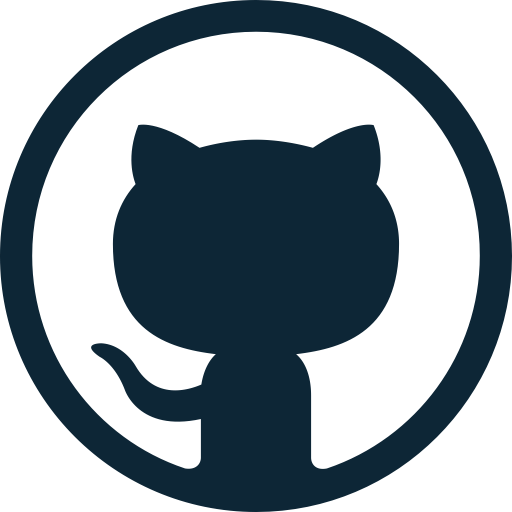
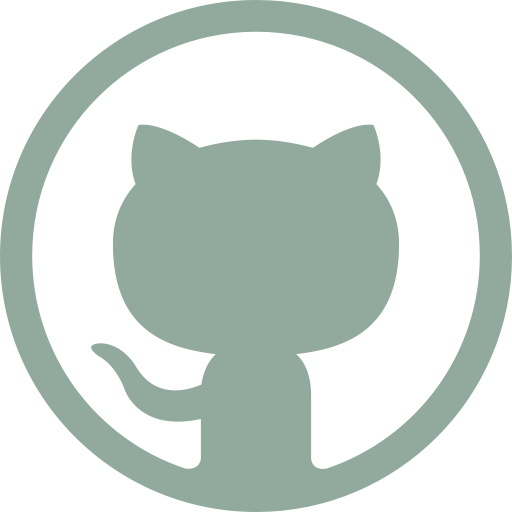
Add style and color scheme that is less bad

diff --git a/style.css b/style.css
@@ -1,53 +1,57 @@
 @import url('https://fonts.googleapis.com/css?family=Comfortaa|Indie+Flower');
-body{
-    background-color: darkgray;
+body {
+    background-color: #193441   ;
 }
 h1 {
-    font-family: 'Indie Flower', cursive;
+    font-family: 'Comfortaa', cursive;
     font-size: 40px;
-    color: #222;
-    margin-left: 150px; 
+    color: #FCFFF5;
+    margin-left: 120px; 
 }
 h2 {
-    font-family: 'Indie Flower', cursive;
+    font-family: 'Comfortaa', cursive;
     text-align: center;
+}
+h3{
+    font-family: 'Comfortaa', cursive;
+    font-size: 15px;
 }
 p1 {
     font-family: 'Comfortaa', cursive;
     font-size: 14px;
 }
-#head{
+#head {
     width: 500px;
-    background-image: url("bg1.jpg");
+    background-color:#3E606F ;
     margin: auto;
     padding: 20px;
     border-radius: 8px;
 }
-#current-resume{
+#current-resume {
     margin: auto;
     width:auto;
 }
-#nav{
+#nav {
     height: 45px;
 }
-#nav2{
-        width: 50%;
-        margin: 0 auto;
+#nav2 {
+    width: 50%;
+    margin: 0 auto;
 }
-.navButton{
+.navButton {
     display: inline;
     font-family: 'Comfortaa', cursive;
     font-size: 15px;
     padding: 10px;
     width: 27%;
     height: 45px;
-    background-color: #83967b;
+    background-color: #D1DBBD;
     border: 1px solid black;
     border-radius: 3px;
     transition-duration: 200ms;
     margin-left: 20px;
 }
-.socialButton{
+.socialButton {
     background-color: transparent;
     border: none;
     display: inline;
@@ -59,21 +63,21 @@ p1 {
     border-radius: 50%;
 }
 .navButton:hover {
-    background-color: #ccc;
+    background-color: whitesmoke;
 }
 .socialButton:hover {
-    background-color: rgba(255,255,255,0.1)
+    background-color: #193441;
 }
-#body{
-    width: 100%;
+#body {
+    width: 99%;
 }
-.contentItem{
+.contentItem {
     width: 50%;
     margin: 0 auto;
-    background: linear-gradient(#ccc, #bbb); 
+    background-color: #FCFFF5;
     margin-top: 20px;
     padding: 10px;
-    border: 1px solid gray;
+    border: 5px solid #91AA9D;
     border-radius: 5px;
 }
 #current-resume {
@@ -85,4 +89,5 @@ p1 {
     margin-left: 15%;
     margin-right: 15%;
     margin-top: 100px;
+    border: 5px solid #91AA9D;
 }

diff --git a/index.html b/index.html
@@ -46,7 +46,8 @@
                         My name is Porter. I am a prospective 
                         computer science major at Earlham College.
                     </p1>
-                        
+                </div>
+                <div class="contentItem"> 
                     <h2>General Background</h2>
                     <p1>
                         I have been interested 
@@ -63,8 +64,9 @@
                 </div>
                 <div class="contentItem">
                     <h2>Interests</h2>
-                    <p1>
-                    </p1>
+                    <h3><i>Computer Software</i></h3>
+                    <h3><i>Computer Hardware</i></h3>
+                    <h3><i>Music</i></h3>
                 </div>
             </div>
         </div>
